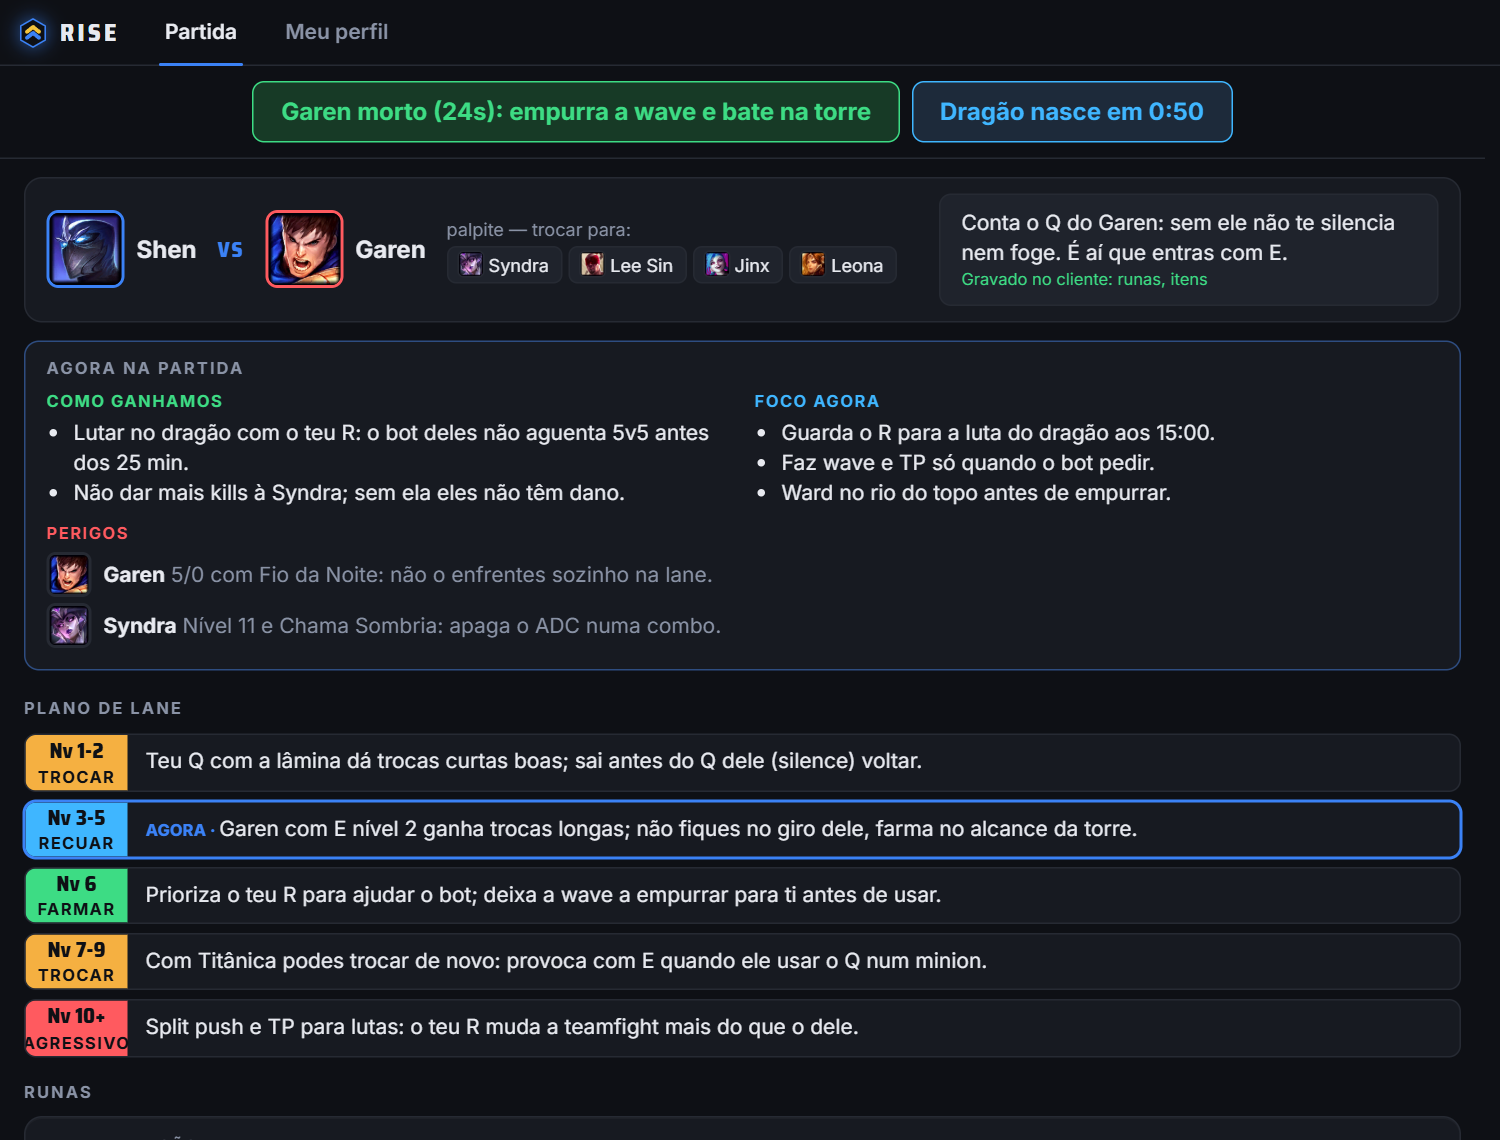
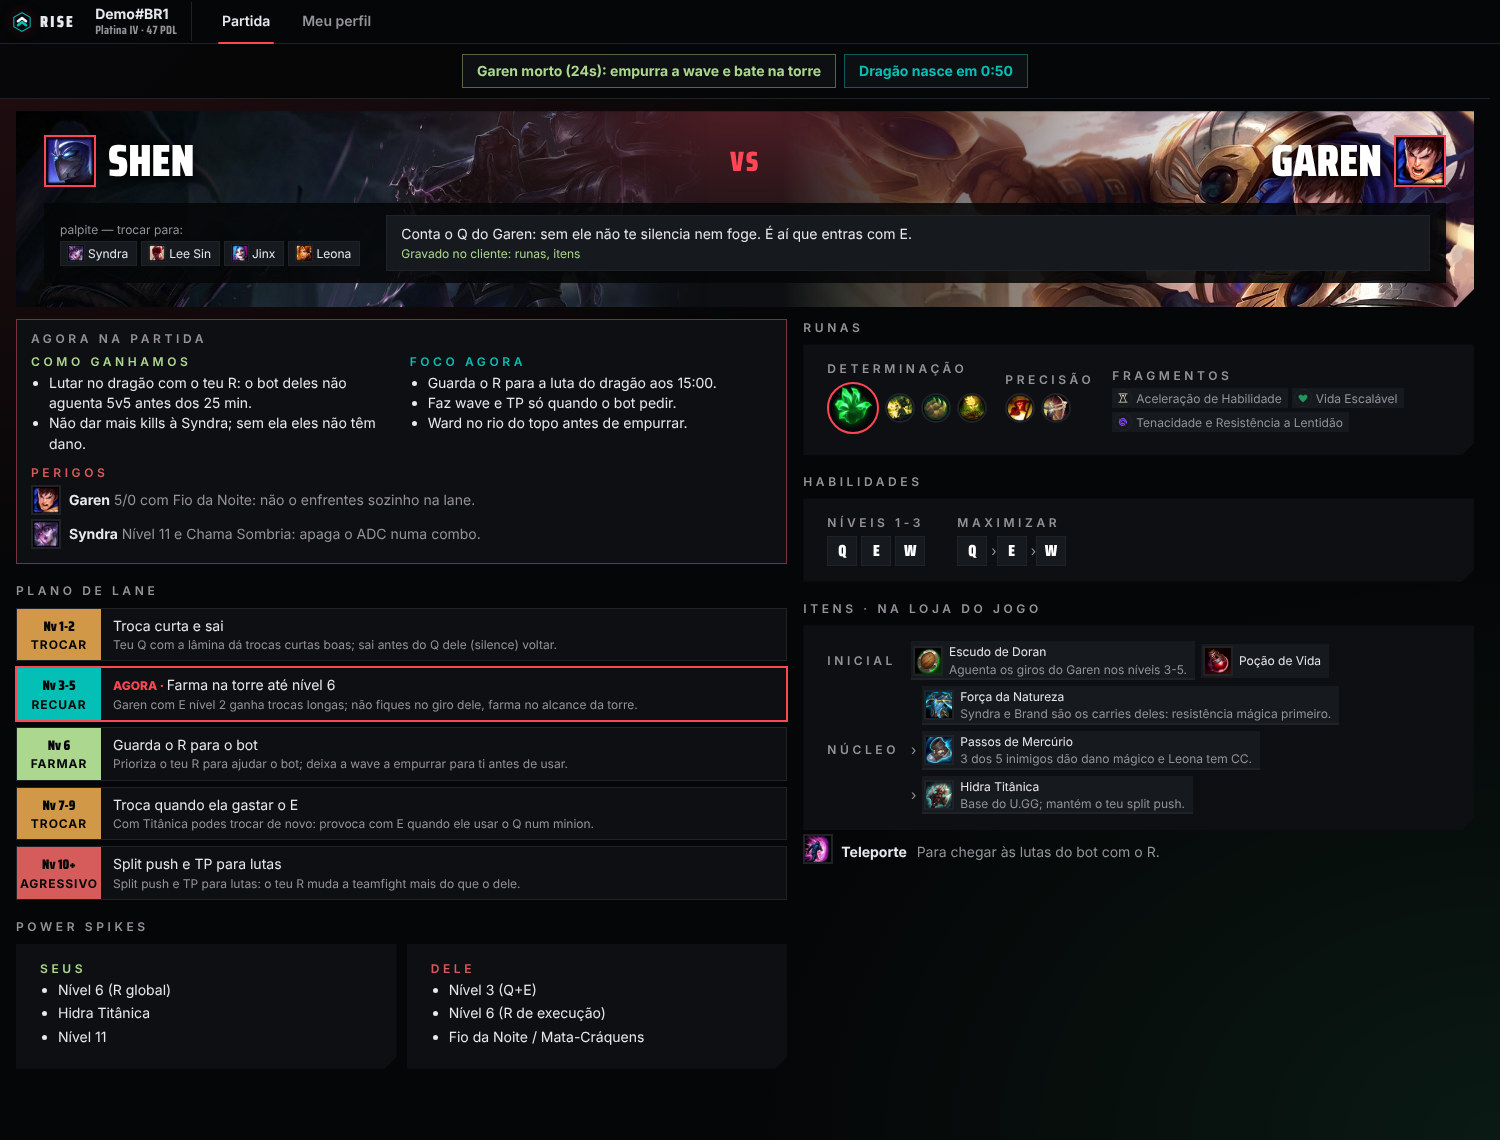
Página no visual do Rise e prints novos
Fundo escuro, vermelho do app e títulos condensados; seções antes, durante e depois da partida.
Prints novos: plano de lane, cards de descrição, pós-partida, perfil, partidas e coach (conta
fictícia de demonstração). Sem print do jogo.

Claude-Session: https://claude.ai/code/session_01A9kCdaGhy6rGBCzv5NSGdF

diff --git a/index.html b/index.html
@@ -4,45 +4,121 @@
 <meta charset="utf-8">
 <meta name="viewport" content="width=device-width, initial-scale=1">
 <title>Rise — League of Legends companion</title>
+<meta name="description" content="A desktop companion that helps League of Legends players improve, game by game.">
+<link rel="icon" href="img/rise.svg">
+<link rel="preconnect" href="https://fonts.googleapis.com">
+<link href="https://fonts.googleapis.com/css2?family=Inter:wght@400;600;700&family=Saira+Condensed:wght@700;900&display=swap" rel="stylesheet">
 <style>
-  :root { --bg: #fff; --fg: #1a1a1a; --muted: #555; --accent: #c8102e; }
-  @media (prefers-color-scheme: dark) { :root { --bg: #111; --fg: #eee; --muted: #aaa; --accent: #ff4d5e; } }
-  body { background: var(--bg); color: var(--fg); font: 17px/1.6 system-ui, sans-serif; max-width: 720px; margin: 0 auto; padding: 32px 16px; }
-  h1 { margin-bottom: 0; } h1 + p { color: var(--muted); margin-top: 4px; }
-  h2 { color: var(--accent); font-size: 1.1em; margin-top: 2em; }
-  figure { margin: 1.5em 0; } figure img { width: 100%; height: auto; border-radius: 8px; border: 1px solid #333; } figcaption { color: var(--muted); font-size: .85em; }
-  footer { color: var(--muted); font-size: .85em; margin-top: 3em; }
+  /* Same palette as the app (DESIGN.md): broadcast black, one red accent, teal logo */
+  :root {
+    --bg: #050607; --panel: #0d0f12; --panel2: #16191d; --line: #1f2328;
+    --text: #e6e8eb; --dim: #949398; --strong: #fff;
+    --accent: #ff4655; --accent-light: #ff7a85; --glow: #3a0a12; --teal: #03bfb5;
+    --cut: polygon(0 0, 100% 0, 100% calc(100% - 16px), calc(100% - 16px) 100%, 0 100%);
+  }
+  * { box-sizing: border-box; }
+  body {
+    margin: 0; background: var(--bg); color: var(--text);
+    font: 16px/1.6 Inter, "Segoe UI", system-ui, sans-serif;
+    background-image: radial-gradient(60% 40% at 80% 0%, var(--glow), transparent 70%);
+    background-repeat: no-repeat;
+  }
+  .wrap { max-width: 1080px; margin: 0 auto; padding: 0 16px; }
+  a { color: var(--accent-light); }
+
+  header { padding: 56px 0 40px; }
+  .brand { display: flex; align-items: center; gap: 14px; }
+  .brand img { width: 56px; height: 56px; }
+  h1 { font: 900 clamp(56px, 10vw, 96px)/.9 "Saira Condensed", "Arial Narrow", sans-serif; letter-spacing: .01em; margin: 0; color: var(--strong); text-transform: uppercase; }
+  .tagline { font-size: clamp(18px, 2.4vw, 22px); color: var(--text); max-width: 640px; margin: 20px 0 0; }
+  .tagline b { color: var(--strong); }
+  .pills { display: flex; flex-wrap: wrap; gap: 8px; margin-top: 24px; }
+  .pill { border: 1px solid var(--line); background: var(--panel); color: var(--dim); border-radius: 99px; padding: 4px 14px; font-size: 14px; }
+
+  .lbl { display: block; font-size: 12px; font-weight: 600; letter-spacing: .3em; text-transform: uppercase; color: var(--accent); }
+  h2 { font: 700 clamp(28px, 4vw, 36px)/1.1 "Saira Condensed", "Arial Narrow", sans-serif; text-transform: uppercase; color: var(--strong); margin: 6px 0 12px; }
+  section { padding: 40px 0; border-top: 1px solid var(--line); }
+  section > p { color: var(--dim); max-width: 680px; margin: 0 0 24px; }
+
+  .shots { display: grid; grid-template-columns: repeat(2, 1fr); gap: 20px; }
+  figure { margin: 0; background: var(--panel); clip-path: var(--cut); }
+  figure img { display: block; width: 100%; height: auto; }
+  figcaption { padding: 12px 16px 16px; color: var(--dim); font-size: 14px; }
+  figcaption b { color: var(--strong); display: block; font-size: 15px; }
+
+  .grid { display: grid; grid-template-columns: repeat(2, 1fr); gap: 16px; }
+  .card { background: var(--panel); padding: 20px 24px; clip-path: var(--cut); border-top: 2px solid var(--accent); }
+  .card h3 { margin: 0 0 6px; font-size: 16px; color: var(--strong); }
+  .card p, .card ul { margin: 0; color: var(--dim); font-size: 15px; }
+  .card ul { padding-left: 18px; }
+  .card code { color: var(--text); background: var(--panel2); padding: 0 4px; font-size: 13px; }
+
+  footer { padding: 32px 0 48px; border-top: 1px solid var(--line); color: var(--dim); font-size: 13px; }
+
+  @media (max-width: 760px) {
+    .shots, .grid { grid-template-columns: 1fr; }
+    header { padding-top: 32px; }
+  }
 </style>
 </head>
 <body>
-<h1>Rise</h1>
-<p>A desktop companion app that helps League of Legends players improve, game by game.</p>
+<div class="wrap">
 
-<h2>What it does</h2>
-<ul>
-  <li><b>Champion select:</b> suggests picks, runes, items and summoner spells from aggregated winrates for the player's elo, role and lane matchup.</li>
-  <li><b>Hover cards:</b> the full in-game description of every suggested item, rune, stat shard, summoner spell and ability (stats, effects, cooldown, cost, price and recipe), so the player learns why each choice matters.</li>
-  <li><b>In game:</b> a small overlay with the game plan for the lane and timely reminders, including the next item to buy and how much gold is still missing for it.</li>
-  <li><b>After the game:</b> reviews the match (deaths, CS, objectives) and tracks the player's recurring mistakes over time.</li>
-</ul>
+<header>
+  <div class="brand"><img src="img/rise.svg" alt=""><h1>Rise</h1></div>
+  <p class="tagline">A desktop companion that helps League of Legends players improve, game by game. It rewards <b>playing well</b>, not only winning.</p>
+  <div class="pills"><span class="pill">Champion select</span><span class="pill">In game</span><span class="pill">Post game</span><span class="pill">Personal coach</span></div>
+</header>
 
-<figure><img src="img/champ-select.png" alt="Game plan for the lane: matchup, win conditions and plan by level" width="1500" height="1140" loading="lazy"><figcaption>Before the game: the plan for the lane, with runes and items applied to the client.</figcaption></figure>
-<figure><img src="img/hover-cards.png" alt="Hover card with the full description of the suggested keystone rune" width="1500" height="1140" loading="lazy"><figcaption>Hover any item, rune, spell or ability for its full description.</figcaption></figure>
-<figure><img src="img/in-game.png" alt="In-game view with timely reminders and the current lane phase" width="1500" height="1140" loading="lazy"><figcaption>In game: what to do right now and short reminders.</figcaption></figure>
-<figure><img src="img/post-game.png" alt="Post-game review with grade, strengths, mistakes and focus for the next game" width="1500" height="1140" loading="lazy"><figcaption>After the game: the review and one focus for the next match.</figcaption></figure>
+<section>
+  <span class="lbl">Before the game</span>
+  <h2>A plan for your lane</h2>
+  <p>Picks, runes, items and summoner spells from aggregated winrates for your elo, role and matchup, applied straight to the client. Hover anything for its full in-game description: stats, effects, cooldown, cost, price and recipe.</p>
+  <div class="shots">
+    <figure><img src="img/champ-select.png" alt="Lane plan: matchup, win conditions and plan by level" width="1500" height="1140" loading="lazy"><figcaption><b>Lane plan</b>Matchup, win conditions and what to do at each level.</figcaption></figure>
+    <figure><img src="img/hover-cards.png" alt="Hover card with the full description of the suggested keystone rune" width="1500" height="1140" loading="lazy"><figcaption><b>Hover cards</b>Every item, rune, spell and ability, explained.</figcaption></figure>
+  </div>
+</section>
 
-<h2>Riot Games API usage</h2>
-<ul>
-  <li><b>league-v4, match-v5:</b> sample ranked solo games from the ladder to compute champion, matchup, item and spell winrates.</li>
-  <li><b>champion-mastery-v4:</b> focus sampling on the champions the user plays.</li>
-  <li><b>account-v1:</b> resolve the user's own Riot ID.</li>
-  <li>The local League client (LCU) is read only for the user's own session, and the Live Client Data API (localhost) only during the user's own game.</li>
-  <li><b>Static game data:</b> Data Dragon for champions, items, runes, summoner spells and their descriptions; CommunityDragon for stat shard texts. No API key is used for these.</li>
-</ul>
+<section>
+  <span class="lbl">In game</span>
+  <h2>What to do right now</h2>
+  <p>A small overlay with the current lane phase and short, timely reminders: objectives about to spawn, enemies missing, and the next item to buy with the gold still missing for it.</p>
+</section>
 
-<h2>Privacy</h2>
-<p>Only aggregated statistics are stored. No personal data of other players is kept or shown. The user's own match history stays on their computer.</p>
+<section>
+  <span class="lbl">After the game</span>
+  <h2>Learn from every match</h2>
+  <p>A review of the game (deaths, CS, objectives) with a grade that measures how well you played against your lane opponent, and one focus for the next match. Your profile tracks your form, matches and recurring mistakes over time.</p>
+  <div class="shots">
+    <figure><img src="img/post-game.png" alt="Post-game review with grade, strengths, mistakes and focus for the next game" width="1500" height="1140" loading="lazy"><figcaption><b>Post game</b>Grade, what went well, what to fix.</figcaption></figure>
+    <figure><img src="img/perfil.png" alt="Profile with form, rank and recent performance" width="1500" height="1140" loading="lazy"><figcaption><b>Profile</b>Your form and rank over time.</figcaption></figure>
+    <figure><img src="img/partidas.png" alt="Match list with grade and result of each game" width="1500" height="1140" loading="lazy"><figcaption><b>Matches</b>Every game with its grade and review.</figcaption></figure>
+    <figure><img src="img/coach.png" alt="Coach with the focus of the week and lessons from recent games" width="1500" height="1140" loading="lazy"><figcaption><b>Coach</b>The focus of the week, from your own games.</figcaption></figure>
+  </div>
+</section>
+
+<section>
+  <span class="lbl">Under the hood</span>
+  <h2>Riot Games API usage</h2>
+  <div class="grid">
+    <div class="card"><h3>Riot API</h3><ul>
+      <li><code>league-v4</code>, <code>match-v5</code>: sample ranked solo games from the ladder to compute champion, matchup, item and spell winrates.</li>
+      <li><code>champion-mastery-v4</code>: focus sampling on the champions the user plays.</li>
+      <li><code>account-v1</code>: resolve the user's own Riot ID.</li>
+    </ul></div>
+    <div class="card"><h3>Local and static data</h3><ul>
+      <li>The local League client (LCU) is read only for the user's own session.</li>
+      <li>The Live Client Data API (localhost) only during the user's own game.</li>
+      <li>Data Dragon for champions, items, runes and spells; CommunityDragon for stat shard texts. No API key is used for these.</li>
+    </ul></div>
+    <div class="card"><h3>Privacy</h3><p>Only aggregated statistics are stored. No personal data of other players is kept or shown. The user's own match history stays on their computer.</p></div>
+    <div class="card"><h3>Screenshots</h3><p>Profile, matches and coach screenshots use a fictional demo account.</p></div>
+  </div>
+</section>
 
 <footer>Rise isn't endorsed by Riot Games and doesn't reflect the views or opinions of Riot Games or anyone officially involved in producing or managing Riot Games properties. Riot Games, and all associated properties are trademarks or registered trademarks of Riot Games, Inc.</footer>
+
+</div>
 </body>
 </html>
